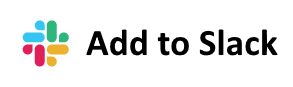
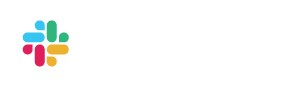
slack button react styles

Changed region(s): [[0.2765, 0.3218, 0.6451, 0.6437], [0.6758, 0.3218, 0.9522, 0.6437]]

diff --git a/_includes/slack-functions.html b/_includes/slack-functions.html
@@ -1,36 +1,5 @@
 <div class="toc1">
-  <span class="section-title"> <h3 class="nav__title1">
-      <svg class="icon" version="1.1" id="Layer_1" xmlns="http://www.w3.org/2000/svg" xmlns:xlink="http://www.w3.org/1999/xlink" x="0px" y="0px"
-      viewBox="0 0 270 270" style="enable-background:new 0 0 270 270;" xml:space="preserve">
-   <style type="text/css">
-     .st0{fill:#E01E5A;}
-     .st1{fill:#36C5F0;}
-     .st2{fill:#2EB67D;}
-     .st3{fill:#ECB22E;}
-   </style>
-   <g>
-     <g>
-       <path class="st0" d="M99.4,151.2c0,7.1-5.8,12.9-12.9,12.9c-7.1,0-12.9-5.8-12.9-12.9c0-7.1,5.8-12.9,12.9-12.9h12.9V151.2z"/>
-       <path class="st0" d="M105.9,151.2c0-7.1,5.8-12.9,12.9-12.9s12.9,5.8,12.9,12.9v32.3c0,7.1-5.8,12.9-12.9,12.9
-         s-12.9-5.8-12.9-12.9V151.2z"/>
-     </g>
-     <g>
-       <path class="st1" d="M118.8,99.4c-7.1,0-12.9-5.8-12.9-12.9c0-7.1,5.8-12.9,12.9-12.9s12.9,5.8,12.9,12.9v12.9H118.8z"/>
-       <path class="st1" d="M118.8,105.9c7.1,0,12.9,5.8,12.9,12.9s-5.8,12.9-12.9,12.9H86.5c-7.1,0-12.9-5.8-12.9-12.9
-         s5.8-12.9,12.9-12.9H118.8z"/>
-     </g>
-     <g>
-       <path class="st2" d="M170.6,118.8c0-7.1,5.8-12.9,12.9-12.9c7.1,0,12.9,5.8,12.9,12.9s-5.8,12.9-12.9,12.9h-12.9V118.8z"/>
-       <path class="st2" d="M164.1,118.8c0,7.1-5.8,12.9-12.9,12.9c-7.1,0-12.9-5.8-12.9-12.9V86.5c0-7.1,5.8-12.9,12.9-12.9
-         c7.1,0,12.9,5.8,12.9,12.9V118.8z"/>
-     </g>
-     <g>
-       <path class="st3" d="M151.2,170.6c7.1,0,12.9,5.8,12.9,12.9c0,7.1-5.8,12.9-12.9,12.9c-7.1,0-12.9-5.8-12.9-12.9v-12.9H151.2z"/>
-       <path class="st3" d="M151.2,164.1c-7.1,0-12.9-5.8-12.9-12.9c0-7.1,5.8-12.9,12.9-12.9h32.3c7.1,0,12.9,5.8,12.9,12.9
-         c0,7.1-5.8,12.9-12.9,12.9H151.2z"/>
-     </g>
-   </g>
-   </svg>&nbsp;Slack Message</h3> </span>  
+  <span class="section-title"> <h3 class="nav__title1"><svg xmlns="http://www.w3.org/2000/svg" class="icon fas-slack" viewBox="0 0 448 512"><path d="M446.2 270.4c-6.2-19-26.9-29.1-46-22.9l-45.4 15.1-30.3-90 45.4-15.1c19.1-6.2 29.1-26.8 23-45.9-6.2-19-26.9-29.1-46-22.9l-45.4 15.1-15.7-47c-6.2-19-26.9-29.1-46-22.9-19.1 6.2-29.1 26.8-23 45.9l15.7 47-93.4 31.2-15.7-47c-6.2-19-26.9-29.1-46-22.9-19.1 6.2-29.1 26.8-23 45.9l15.7 47-45.3 15c-19.1 6.2-29.1 26.8-23 45.9 5 14.5 19.1 24 33.6 24.6 6.8 1 12-1.6 57.7-16.8l30.3 90L78 354.8c-19 6.2-29.1 26.9-23 45.9 5 14.5 19.1 24 33.6 24.6 6.8 1 12-1.6 57.7-16.8l15.7 47c5.9 16.9 24.7 29 46 22.9 19.1-6.2 29.1-26.8 23-45.9l-15.7-47 93.6-31.3 15.7 47c5.9 16.9 24.7 29 46 22.9 19.1-6.2 29.1-26.8 23-45.9l-15.7-47 45.4-15.1c19-6 29.1-26.7 22.9-45.7zm-254.1 47.2l-30.3-90.2 93.5-31.3 30.3 90.2-93.5 31.3z"/></svg>&nbsp;Slack Message</h3> </span>  
   <div class="toc1__menu">
     <h3 class="text-center">Message Me</h3>
   <form action="/.netlify/functions/SlackMessages/" method="POST">
@@ -43,42 +12,12 @@
       <div>
         <span class="section-title">
            <h3 class="nav__title1">
-            <svg class="icon" version="1.1" id="Layer_1" xmlns="http://www.w3.org/2000/svg" xmlns:xlink="http://www.w3.org/1999/xlink" x="0px" y="0px"
-	 viewBox="0 0 270 270" style="enable-background:new 0 0 270 270;" xml:space="preserve">
-<style type="text/css">
-	.st0{fill:#E01E5A;}
-	.st1{fill:#36C5F0;}
-	.st2{fill:#2EB67D;}
-	.st3{fill:#ECB22E;}
-</style>
-<g>
-	<g>
-		<path class="st0" d="M99.4,151.2c0,7.1-5.8,12.9-12.9,12.9c-7.1,0-12.9-5.8-12.9-12.9c0-7.1,5.8-12.9,12.9-12.9h12.9V151.2z"/>
-		<path class="st0" d="M105.9,151.2c0-7.1,5.8-12.9,12.9-12.9s12.9,5.8,12.9,12.9v32.3c0,7.1-5.8,12.9-12.9,12.9
-			s-12.9-5.8-12.9-12.9V151.2z"/>
-	</g>
-	<g>
-		<path class="st1" d="M118.8,99.4c-7.1,0-12.9-5.8-12.9-12.9c0-7.1,5.8-12.9,12.9-12.9s12.9,5.8,12.9,12.9v12.9H118.8z"/>
-		<path class="st1" d="M118.8,105.9c7.1,0,12.9,5.8,12.9,12.9s-5.8,12.9-12.9,12.9H86.5c-7.1,0-12.9-5.8-12.9-12.9
-			s5.8-12.9,12.9-12.9H118.8z"/>
-	</g>
-	<g>
-		<path class="st2" d="M170.6,118.8c0-7.1,5.8-12.9,12.9-12.9c7.1,0,12.9,5.8,12.9,12.9s-5.8,12.9-12.9,12.9h-12.9V118.8z"/>
-		<path class="st2" d="M164.1,118.8c0,7.1-5.8,12.9-12.9,12.9c-7.1,0-12.9-5.8-12.9-12.9V86.5c0-7.1,5.8-12.9,12.9-12.9
-			c7.1,0,12.9,5.8,12.9,12.9V118.8z"/>
-	</g>
-	<g>
-		<path class="st3" d="M151.2,170.6c7.1,0,12.9,5.8,12.9,12.9c0,7.1-5.8,12.9-12.9,12.9c-7.1,0-12.9-5.8-12.9-12.9v-12.9H151.2z"/>
-		<path class="st3" d="M151.2,164.1c-7.1,0-12.9-5.8-12.9-12.9c0-7.1,5.8-12.9,12.9-12.9h32.3c7.1,0,12.9,5.8,12.9,12.9
-			c0,7.1-5.8,12.9-12.9,12.9H151.2z"/>
-	</g>
-</g>
-</svg>&nbsp;
+            <svg xmlns="http://www.w3.org/2000/svg" class="icon fas-slack" viewBox="0 0 448 512"><path d="M446.2 270.4c-6.2-19-26.9-29.1-46-22.9l-45.4 15.1-30.3-90 45.4-15.1c19.1-6.2 29.1-26.8 23-45.9-6.2-19-26.9-29.1-46-22.9l-45.4 15.1-15.7-47c-6.2-19-26.9-29.1-46-22.9-19.1 6.2-29.1 26.8-23 45.9l15.7 47-93.4 31.2-15.7-47c-6.2-19-26.9-29.1-46-22.9-19.1 6.2-29.1 26.8-23 45.9l15.7 47-45.3 15c-19.1 6.2-29.1 26.8-23 45.9 5 14.5 19.1 24 33.6 24.6 6.8 1 12-1.6 57.7-16.8l30.3 90L78 354.8c-19 6.2-29.1 26.9-23 45.9 5 14.5 19.1 24 33.6 24.6 6.8 1 12-1.6 57.7-16.8l15.7 47c5.9 16.9 24.7 29 46 22.9 19.1-6.2 29.1-26.8 23-45.9l-15.7-47 93.6-31.3 15.7 47c5.9 16.9 24.7 29 46 22.9 19.1-6.2 29.1-26.8 23-45.9l-15.7-47 45.4-15.1c19-6 29.1-26.7 22.9-45.7zm-254.1 47.2l-30.3-90.2 93.5-31.3 30.3 90.2-93.5 31.3z"/></svg>&nbsp;
            Join My Slack</h3>
         </span>
     </div>
     <div class="form-group">
-      <div id="slack" class="text-center slack-signup"><a href="https://slack.com/oauth/authorize?client_id=295732203780.461769895905&scope=incoming-webhook"><img class="btn btn--light-outline" alt="Add to Slack" height="40" width="139" src="/assets/images/btn-add-to-slack 2x.png" srcset="btn-add-to-slack 1x.png 1x, btn-add-to-slack 2x.png 2x" /></a></div>
+      <div id="slack" class="text-center slack-signup"><a href="https://slack.com/oauth/authorize?client_id=295732203780.461769895905&scope=incoming-webhook"><img alt="Add to Slack" height="40" width="139" src="https://platform.slack-edge.com/img/add_to_slack.png" srcset="https://platform.slack-edge.com/img/add_to_slack.png 1x, https://platform.slack-edge.com/img/add_to_slack@2x.png 2x" /></a></div>
     </div>
   </div>
 </div>  

diff --git a/_includes/comment-form.html b/_includes/comment-form.html
@@ -32,7 +32,7 @@
               <input type="hidden" id="comment-post-id" name="options[slug]" value="{{ page.slug }}">
               <input type="hidden" name="options[reCaptcha][siteKey]" value="6LdjemEUAAAAAElWvXeLBlksiR83cZvXB2d9ZDmF">
               <input type="hidden" name="options[reCaptcha][secret]" value="6LdjemEUAAAAAFk9H9kg9agjERxDZdUSbXK65M8_">
-            <div class="gallery-col-2">
+            <div class="gallery-2-col-unjustified">
               <div class="form-group">
                   <div>Agree to Our <a class="external-links" href="https://donboulton.com/terms">Terms</a>&nbsp;<abbr class="abbr" title="Required">&nbsp;*&nbsp;</abbr></div>
                 <div class="enable-push">
@@ -43,7 +43,7 @@
                 </div>
               </div>
               <div class="notify-me">
-                <div>Comment Notifications</div> 
+                <div>Comment Reply Notifications</div> 
                 <div class="enable-push">
                     <div class="toggle-switch">               
                     <input type="checkbox" id="comment-form-reply" name="options[subscribe]" value="email">

diff --git a/_src/lib/components/Todo.js b/_src/lib/components/Todo.js
@@ -31,13 +31,13 @@ class Todo extends Component {
   render() {
     return (
       <div className="AppCenter">
-      <img src={logo} className="App-logo" alt="logo" />
+      <img src={logo} className="App-logo align-center" alt="logo" />
        <h3 className="Appheader"> TODO-LIST </h3>
        <div className='AppCentermain'>
         <form className="App notify-center" onSubmit={this.onSubmit}>
           <input placeholder="add task" value={this.state.term} onChange={(e) => this.onChange(e.target.value)}
           className="inputField"/>
-          <button className="btn btn--primary">Add</button>
+          <button className="btn btn--primary notifyCenter">Add</button>
         </form>
         <List items={this.state.items}  onDeleteList={this.onDelete}/>
         <div className="bottom-outer">

diff --git a/_src/main.css b/_src/main.css
@@ -91,7 +91,6 @@ h1 {
 .App-logo {
   animation: a infinite 20s linear;
   height: 80px;
-  text-align: center;
 }
 
 @keyframes App-logo-spin {
@@ -124,12 +123,12 @@ h1 {
 .AppCentermain,.notifyCenter {
   max-width: 230px;
   margin: 0 auto;
-  text-align: center;
   position: relative;
 }
 
 .notifyCenter {
   min-height: 80px;
+  text-align: center;
 }
 
 .external-links{
